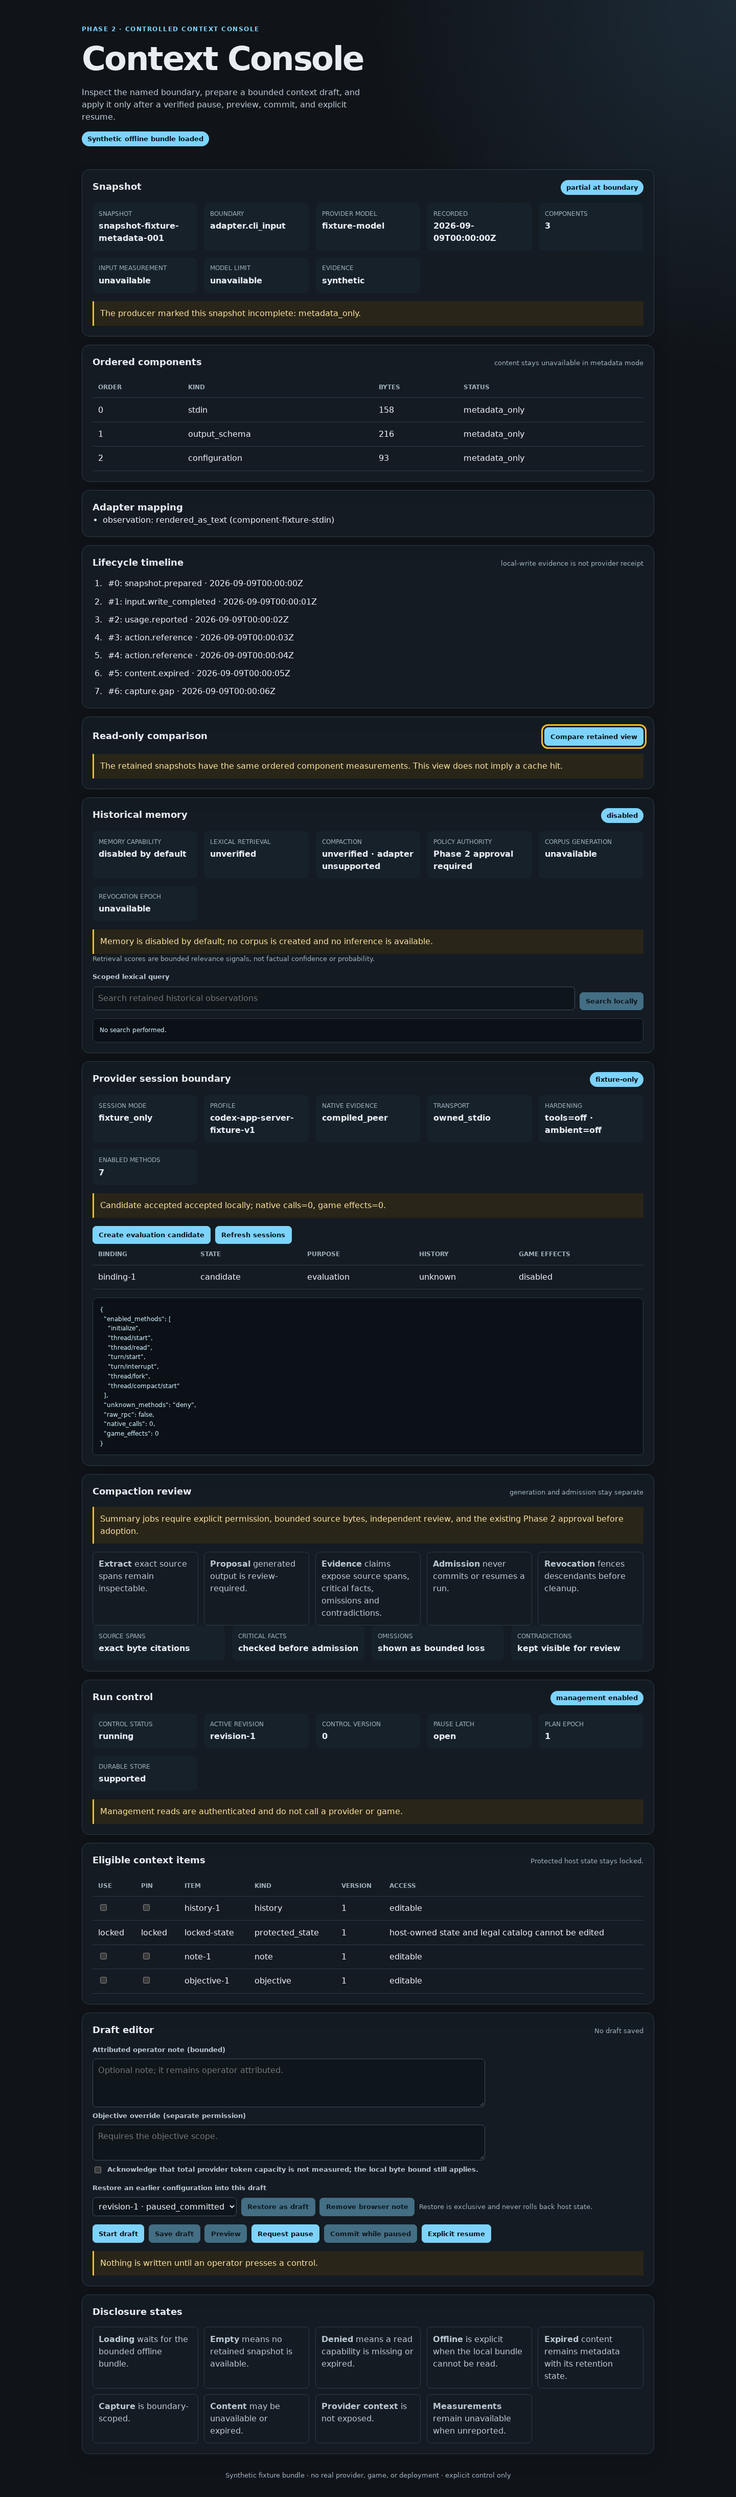
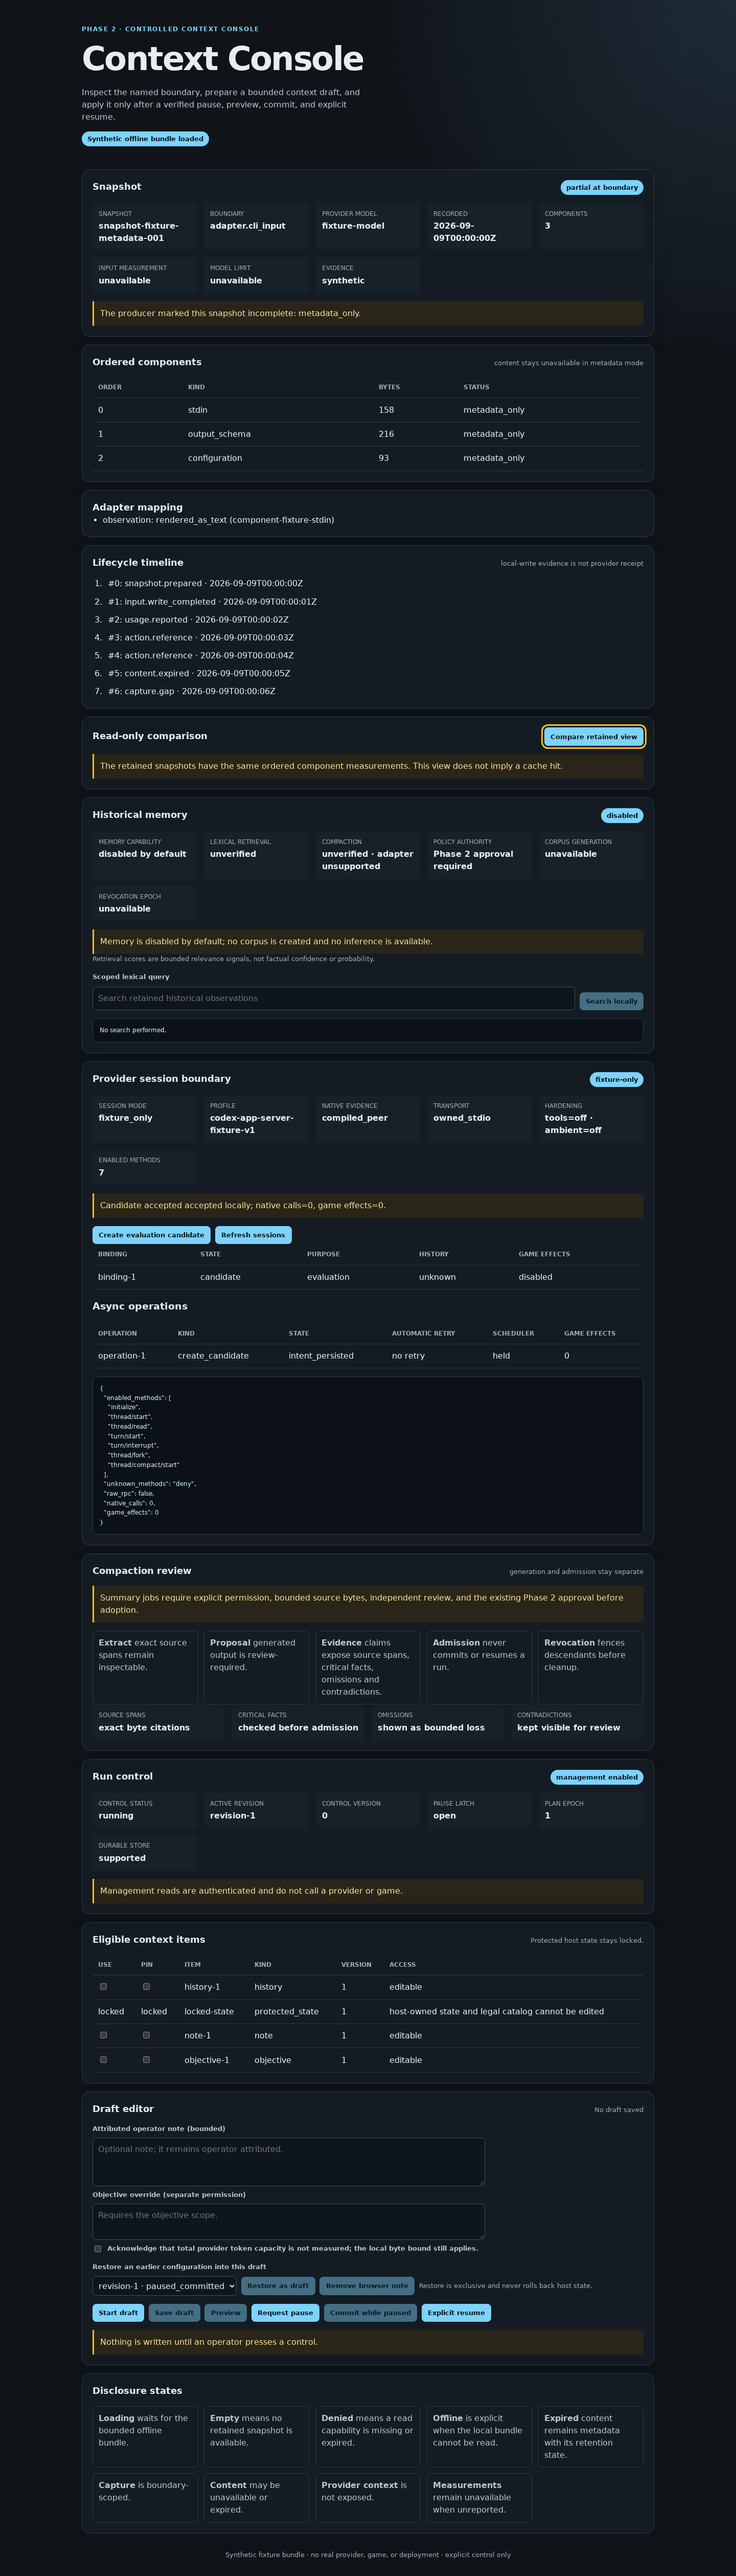
Refresh Phase 4 evidence for prepared, transform and rotation fences
Pin the harness baseline to 926c3a7 and the target source baseline to 1508164,
record the new prepared-vector, transform-fence, clean-rotation, privacy,
cursor-opacity, descriptor-read and refused-compaction lanes, and upgrade the
six previously source-reviewed requirements to executed fixture evidence.

Regenerate the loopback probe record and the browser audit at the new source
revision; the browser evidence now asserts the accepted/pending/unknown/
completed operation states render as four distinct values while provider,
game and external effects remain zero.

diff --git a/docs/evidence/phase4-completion-report-20260911.md b/docs/evidence/phase4-completion-report-20260911.md
@@ -9,8 +9,8 @@ the unavailable native three-level orchestration gate. The per-requirement ledge
 
 | Repository | Branch and commit | Publication | Scope |
 | --- | --- | --- | --- |
-| [ascension-context-console](https://github.com/AI-Ascension/ascension-context-console/tree/phase4/persistent-provider) | `phase4/persistent-provider` implementation source baseline `35271da` | [draft PR #12](https://github.com/AI-Ascension/ascension-context-console/pull/12); committed and pushed; subsequent target commits are evidence/documentation-only; not merged/released/deployed | typed client route, integrated demo, browser surface, capability disclosure |
-| [sts2-harness](https://github.com/AI-Ascension/sts2-harness/tree/phase4/persistent-provider) | `phase4/persistent-provider` at `d094fc0` | [draft PR #87](https://github.com/AI-Ascension/sts2-harness/pull/87); committed and pushed; not merged/released/deployed | broker ownership, lifecycle fencing, strict JSON-RPC fixture transport, bounded metadata snapshot restore |
+| [ascension-context-console](https://github.com/AI-Ascension/ascension-context-console/tree/phase4/persistent-provider) | `phase4/persistent-provider` implementation source baseline `1508164` | [draft PR #12](https://github.com/AI-Ascension/ascension-context-console/pull/12); committed and pushed; subsequent target commits are evidence/documentation-only; not merged/released/deployed | typed client route, integrated demo, browser surface, capability disclosure |
+| [sts2-harness](https://github.com/AI-Ascension/sts2-harness/tree/phase4/persistent-provider) | `phase4/persistent-provider` at `926c3a7` | [draft PR #87](https://github.com/AI-Ascension/sts2-harness/pull/87); committed and pushed; not merged/released/deployed | broker ownership, lifecycle fencing, strict JSON-RPC fixture transport, bounded metadata snapshot restore |
 
 The working trees were fetched and fast-forward synchronized after push. No unrelated changes were
 reset or overwritten.
@@ -28,8 +28,9 @@ The target's authenticated `/v1/runs/{run_id}/provider-sessions*` projection is 
 fixture-only. The integrated loopback demo serves capabilities, scoped listings, history/operation
 metadata and an explicit evaluation-candidate action. Candidate writes require the synthetic
 session bearer and same-origin CSRF proof. The UI reports `fixture_only`, `compiled_peer`,
-`owned_stdio`, disabled tools/ambient history, zero native calls and zero game effects. It never
-accepts raw RPC methods, provider credentials, game actions or automatic resume.
+`owned_stdio`, disabled tools/ambient history, zero native calls and zero game effects, and renders
+the run's bounded operation metadata so accepted/pending/unknown/completed states stay visibly
+distinct. It never accepts raw RPC methods, provider credentials, game actions or automatic resume.
 
 The harness snapshot lane persists only the bounded local metadata journal: operation
 idempotency, epochs, maintenance records and redacted history projections. Local admission enforces
@@ -43,8 +44,15 @@ Pending candidate, reconnect and compaction completions are fenced after retirem
 fork/compaction maintenance is invalidated on owner rotation or crash recovery; the dedicated
 retirement regression lane covers these no-resurrection transitions.
 History cursors are binding- and scope-tagged and carry the current history epoch; prepared turns
-carry the broker auth and revocation epochs, with cross-binding, stale-history, and stale-
-authorization replay rejection covered by the cursor and provider-session regression lanes.
+carry the broker auth and revocation epochs, and the first resumed submission now re-validates the
+entire approval dependency vector (owner/auth/session/history/compaction/revocation epochs, profile
+and continuity digests, dependency identity) against the current binding before any operation is
+created. Cross-binding, stale-history, stale-configuration and stale-authorization replays are
+rejected by the cursor, prepared-vector and provider-session regression lanes. An unapproved
+automatic context transform observed during an in-flight turn is fenced: the attempt becomes
+unknown, the binding is held and the history epoch advances, so the late result and any stale
+prepared input cannot regain authority. Wire-level native transform notification detection remains
+unverified; only the broker fence is directly exercised.
 
 The journal has an explicit volatile adapter and a broker-owned encrypted-persistent adapter. The
 encrypted adapter authenticates only this bounded metadata envelope and uses fail-closed absolute,
@@ -85,19 +93,26 @@ harness: cargo test --locked -p sts2-harness --lib provider_session::transport::
 harness: cargo test --locked -p sts2-harness --lib provider_session::transport::tests::forbidden_native_method_is_rejected_before_write
 target: node --check web/app.js && node --check tools/integrated_browser_audit.cjs
 target: cargo test --locked -p context-service --test phase4_session
+target: node tools/phase4_session_loopback.cjs
+target: node tools/integrated_browser_audit.cjs
 harness: cargo test --locked -p sts2-harness --test provider_session --test provider_session_safety --test provider_session_snapshot
+harness: cargo test --locked -p sts2-harness --test provider_session_prepared --test provider_session_fences
 ```
 
-The harness full suite passed with 181 tests and one ignored test in the large execution-store
-group plus the remaining workspace groups; the explicit `TMPDIR` was required because the default
-`/tmp` tmpfs exhausted while constructing oversized SQLite fixtures. The target full suite passed.
-Loopback probes against the built integrated demo returned capabilities/list/candidate success and
-403 for a wrong-origin candidate write; all reported zero native calls and zero game effects. The
-exact probe record is [`phase4-session-loopback-20260911.json`](phase4-session-loopback-20260911.json).
+The harness full workspace suite passed (683 tests passed, 5 ignored across all groups), including
+the new prepared-vector, transform-fence, clean-rotation, privacy-serialization, cursor-opacity,
+retained-compaction and symlink-redirection lanes; the explicit `TMPDIR` was required because the
+default `/tmp` tmpfs exhausted while constructing oversized SQLite fixtures. The target full suite
+passed. `tools/phase4_session_loopback.cjs` started the built integrated demo and returned
+capabilities/list/candidate success plus 403 for a wrong-origin candidate write; every probe reported
+zero native calls and zero game effects. The exact probe record is
+[`phase4-session-loopback-20260911.json`](phase4-session-loopback-20260911.json).
 
 The current browser audit ran with Playwright 1.63.0 and Chromium 153.0.8010.12. It exercised the
-Phase 1–3 panels plus the Phase 4 capabilities/list/candidate flow, wrong-origin rejection, reduced
-motion, narrow layout, adversarial text, zero external requests, and zero browser persistence. The
+Phase 1–3 panels plus the Phase 4 capabilities/list/candidate flow, wrong-origin rejection,
+accepted/pending/unknown/completed operation states rendered as distinct values in the served UI,
+reduced motion, narrow layout, adversarial text, zero external requests, and zero browser
+persistence. The
 fresh JSON/PNG evidence is recorded in `docs/evidence/integrated-browser-ui-20260910.json` and the
 same run's 20260911 PNG artifacts. Full native-profile and live-provider/game checks remain
 unverified.

diff --git a/docs/phase4/IMPLEMENTED_HANDOFF.md b/docs/phase4/IMPLEMENTED_HANDOFF.md
@@ -1,7 +1,7 @@
 # Phase 4 implementation handoff (fixture/source scope)
 
-Date: 2026-09-11. The target implementation source baseline is `35271da`.
-The companion harness baseline is `d094fc0`. Subsequent target commits are evidence/documentation-only.
+Date: 2026-09-11. The target implementation source baseline is `1508164`.
+The companion harness baseline is `926c3a7`. Subsequent target commits are evidence/documentation-only.
 
 | Seam | Owner and implementation | Evidence | Limit |
 | --- | --- | --- | --- |
@@ -59,3 +59,19 @@ retirement regression lane covers these no-resurrection transitions.
 History cursors are binding- and scope-tagged and carry the current history epoch; prepared turns
 carry the broker auth and revocation epochs, so cross-binding, stale-history, and stale-authorization
 replays are rejected.
+
+The first resumed submission revalidates the entire approval dependency vector against the current
+binding rather than trusting construction time: owner/auth/session/history/compaction/revocation
+epochs, profile and continuity digests, and dependency identity must all still match the prepared
+record, which is itself re-validated at that boundary. A history refresh, compaction completion,
+dependency change, owner rotation or crash recovery therefore invalidates the exact approved bytes.
+
+An unapproved automatic context transform observed during an in-flight turn is fenced by
+`fence_automatic_transform`: the attempt is retained as unknown, the binding is held, and the
+history epoch advances so the late result and any stale prepared input can never regain authority.
+Wire-level native transform-notification detection remains unverified; only the broker fence is
+directly exercised.
+
+The encrypted metadata journal is now read through a no-follow descriptor and the resulting file
+metadata is rechecked on that descriptor, closing the path-swap window between path validation and
+read. Its load test proves a symlink redirection is rejected.

diff --git a/docs/phase4/NATIVE_CAPABILITIES.md b/docs/phase4/NATIVE_CAPABILITIES.md
@@ -39,6 +39,11 @@ Only the approved `OPENAI_API_KEY` secret name may cross the inherited-environme
 endpoint and unrelated credential names are rejected by configuration validation.
 The owned transport rejects a forbidden method before writing a frame; this is a broker/fixture
 allowlist guarantee, not proof that an installed native binary will suppress its own built-in tools.
+An unapproved automatic context transform observed during an in-flight turn is fenced by the
+broker: the attempt is retained as unknown, the binding is held and the history epoch advances so
+the late result and stale prepared input cannot regain authority. This is a broker-level response to
+a reported transform; the owned transport counts native notifications without parsing their method,
+so wire-level native transform detection remains unverified.
 Broker retention is finite at every admission and restore boundary: policy validation caps completed
 turns at 128 and scope lifetime at 24 hours, history refresh/completion/restore enforce the selected
 turn and aggregate-byte limits, and fork-created evaluation candidates plus combined fork/compaction
